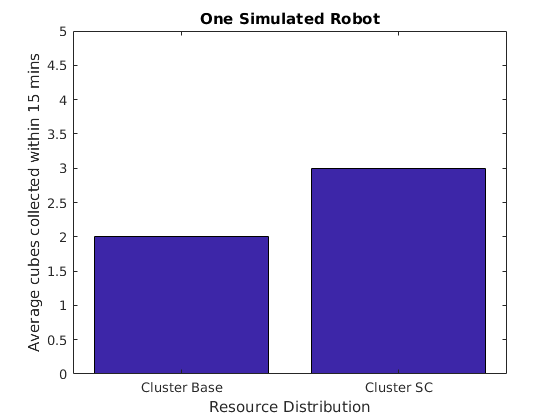
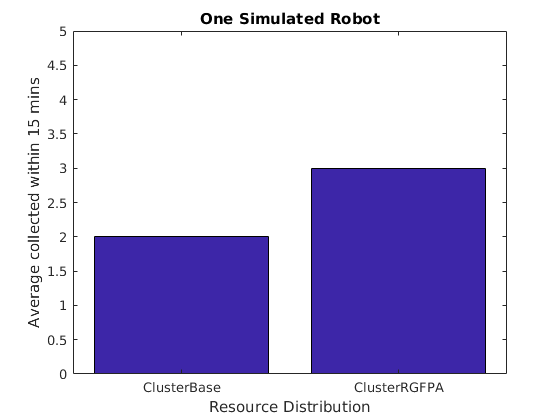
Modified data figures to match algorithm abbreviated name "RGFPA - Randomly generated fixed point algorithm".

Changed region(s): [[0.0304, 0.1238, 0.0911, 0.8357], [0.2429, 0.8976, 0.3946, 0.9595], [0.6375, 0.8976, 0.7893, 0.9595]]

diff --git a/data/parseNplotData.m b/data/parseNplotData.m
@@ -14,7 +14,7 @@ mean_three_random_base_data = floor(mean(three_random_data(:,3)));
 mean_three_random_SC_data = floor(mean(three_random_data(:,2)));
 
 %Label for one robot bar graph
-one_c = categorical({'Cluster Base','Cluster SC'});
+one_c = categorical({'ClusterBase','ClusterRGFPA'});
 one_cluster_mean = [mean_one_cluster_base_data mean_one_cluster_SC_data];
 
 %Figure 1
@@ -24,11 +24,11 @@ ylim([0 5]);
 hold on;
 title('One Simulated Robot');
 xlabel('Resource Distribution');
-ylabel('Average cubes collected within 15 mins')
+ylabel('Average collected within 15 mins')
 hold off;
 
 %Label for three robots bar graph
-three_c = categorical({'ClusterBase', 'ClusterSC', 'RandomBase', 'RandomSC'})
+three_c = categorical({'ClusterBase', 'ClusterRGFPA', 'RandomBase', 'RandomRGFPA'})
 three_robot_mean = [mean_three_cluster_base_data mean_three_cluster_SC_data mean_three_random_base_data mean_three_random_SC_data];
 
 %Figure 2
@@ -38,7 +38,7 @@ ylim([0 20])
 hold on;
 title('Three Simulated Robots')
 xlabel('Resource Distribution')
-ylabel('Average cubes collected within 15 mins')
+ylabel('Average collected within 15 mins')
 hold off;
 
 % %Subplots
